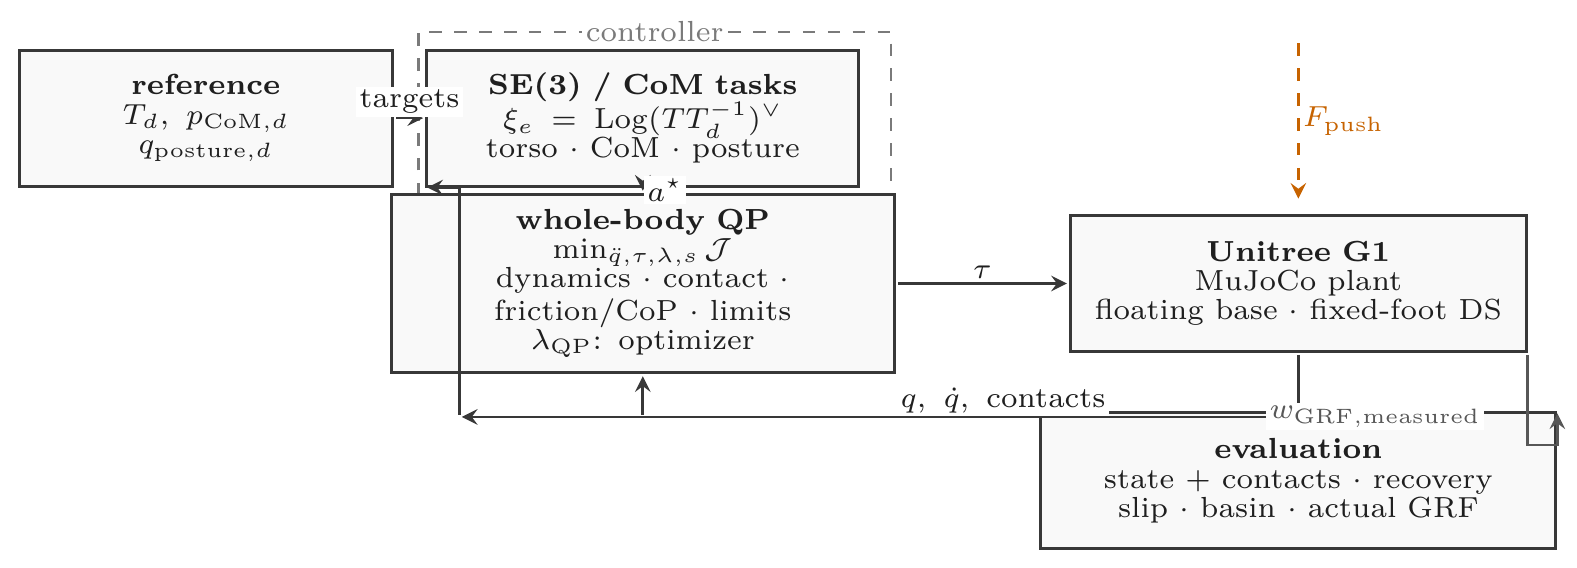
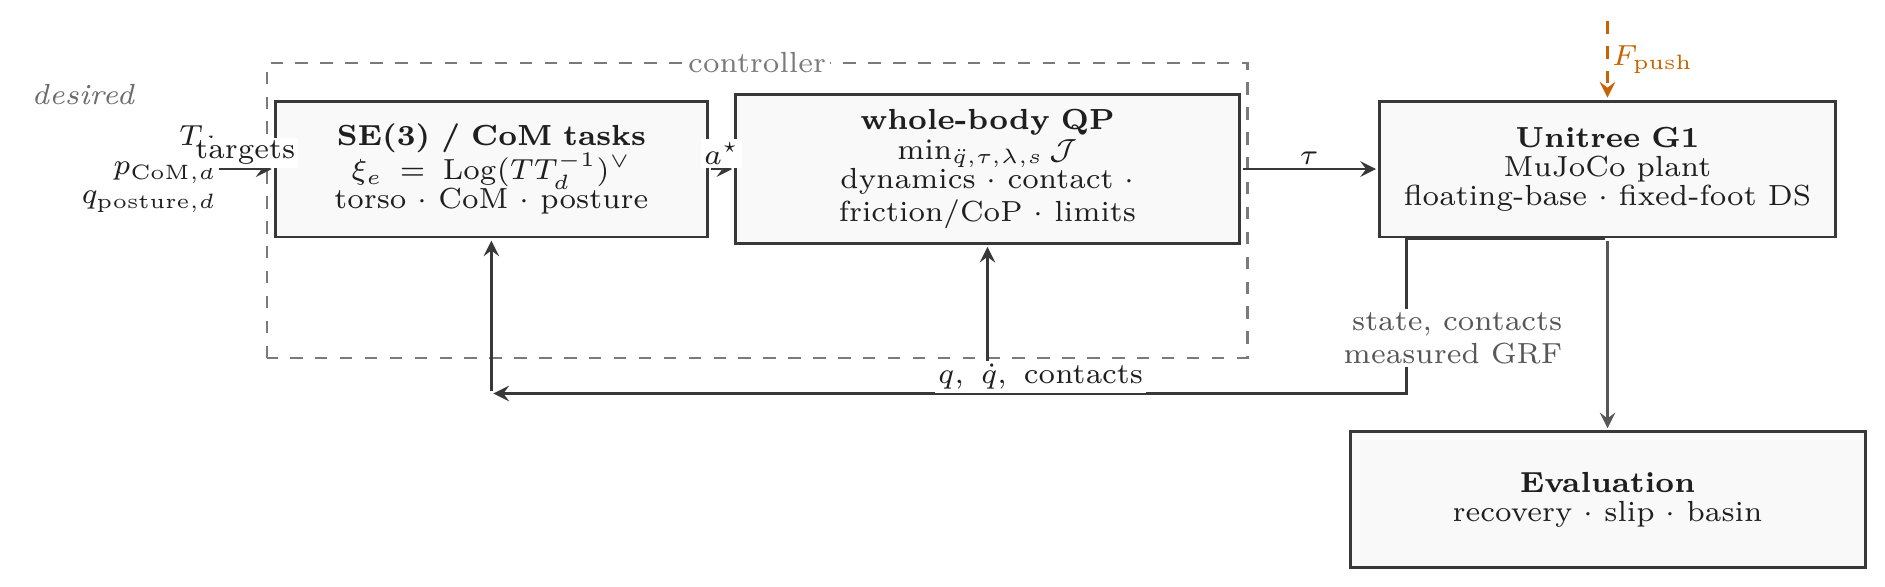
Use classical horizontal architecture layout

diff --git a/docs/figures/system_architecture_common.tex b/docs/figures/system_architecture_common.tex
@@ -71,6 +71,12 @@
     fill=white,
     inner sep=1pt,
   },
+  archinput/.style={
+    font=\scriptsize,
+    text=archtext,
+    align=right,
+    inner sep=0pt,
+  },
 }
 
 % Candidate A: a conventional horizontal controls loop.  The controller
@@ -232,5 +238,62 @@
       (ceval.north east);
     \node[archmeasurelabel,above] at (12.30,0.78)
       {$w_{\mathrm{GRF,measured}}$};
+  \end{tikzpicture}%
+}
+
+% Final horizontal controls-paper layout. Desired quantities are signals
+% rather than a separate subsystem; the plant and evaluation remain outside
+% the dashed controller boundary.
+\newcommand{\DrawArchitectureHorizontalFinal}{%
+  \begin{tikzpicture}[x=1cm,y=1cm]
+    \draw[archboundary] (3.55,1.55) rectangle (11.85,4.05);
+    \node[archboundarylabel] at (7.70,4.05) {controller};
+
+    \node[archinput] (hdesired) at (2.55,3.15)
+      {$T_d$\\[-1pt]$p_{\mathrm{CoM},d}$\\[-1pt]$q_{\mathrm{posture},d}$};
+    \node[font=\scriptsize\itshape,text=archmuted,anchor=east]
+      at (2.55,3.78) {desired};
+
+    \node[archtask] (htask) at (5.45,3.15)
+      {\textbf{SE(3) / CoM tasks}\\[-1pt]
+      $\xi_e=\Log(TT_d^{-1})^\vee$\\[-1pt]
+      {\scriptsize torso $\cdot$ CoM $\cdot$ posture}};
+    \node[archqp] (hqp) at (9.65,3.15)
+      {\textbf{whole-body QP}\\[-1pt]
+      $\min_{\ddot q,\tau,\lambda,s}\mathcal{J}$\\[-1pt]
+      {\scriptsize dynamics $\cdot$ contact $\cdot$ friction/CoP $\cdot$ limits}};
+    \node[archplant] (hplant) at (14.90,3.15)
+      {\textbf{Unitree G1}\\[-1pt]
+      {\scriptsize MuJoCo plant}\\[-1pt]
+      {\scriptsize floating-base $\cdot$ fixed-foot DS}};
+    \node[archeval] (heval) at (14.90,0.35)
+      {\textbf{Evaluation}\\[-1pt]
+      {\scriptsize recovery $\cdot$ slip $\cdot$ basin}};
+
+    \draw[archsignal] (hdesired.east) --
+      node[archlabel,above] {targets}
+      (htask.west);
+    \draw[archsignal] (htask.east) --
+      node[archmathlabel,above] {$a^\star$}
+      (hqp.west);
+    \draw[archsignal] (hqp.east) --
+      node[archmathlabel,above] {$\tau$}
+      (hplant.west);
+
+    \draw[archpushsignal] (14.90,4.42) --
+      node[archpushlabel,right] {$F_{\mathrm{push}}$}
+      (hplant.north);
+
+    % One bottom state bus feeds both controller blocks.
+    \draw[archfeedback] (hplant.south) -- ++(-1.70,0) |- (5.45,1.25);
+    \draw[archfeedback] (5.45,1.25) -- (htask.south);
+    \draw[archfeedback] (9.65,1.25) -- (hqp.south);
+    \node[archlabel,above] at (10.10,1.25)
+      {$q,\ \dot q,\ \mathrm{contacts}$};
+
+    % Direct physical measurement path to evaluation; no side U-turn.
+    \draw[archmeasurement] (hplant.south) -- (heval.north);
+    \node[archmeasurelabel,anchor=east,align=right] at (14.55,1.72)
+      {state, contacts\\ measured GRF};
   \end{tikzpicture}%
 }

diff --git a/docs/figures/system_architecture.tex b/docs/figures/system_architecture.tex
@@ -8,5 +8,5 @@
 \input{system_architecture_common.tex}
 
 \begin{document}
-\DrawArchitectureCandidateB
+\DrawArchitectureHorizontalFinal
 \end{document}
